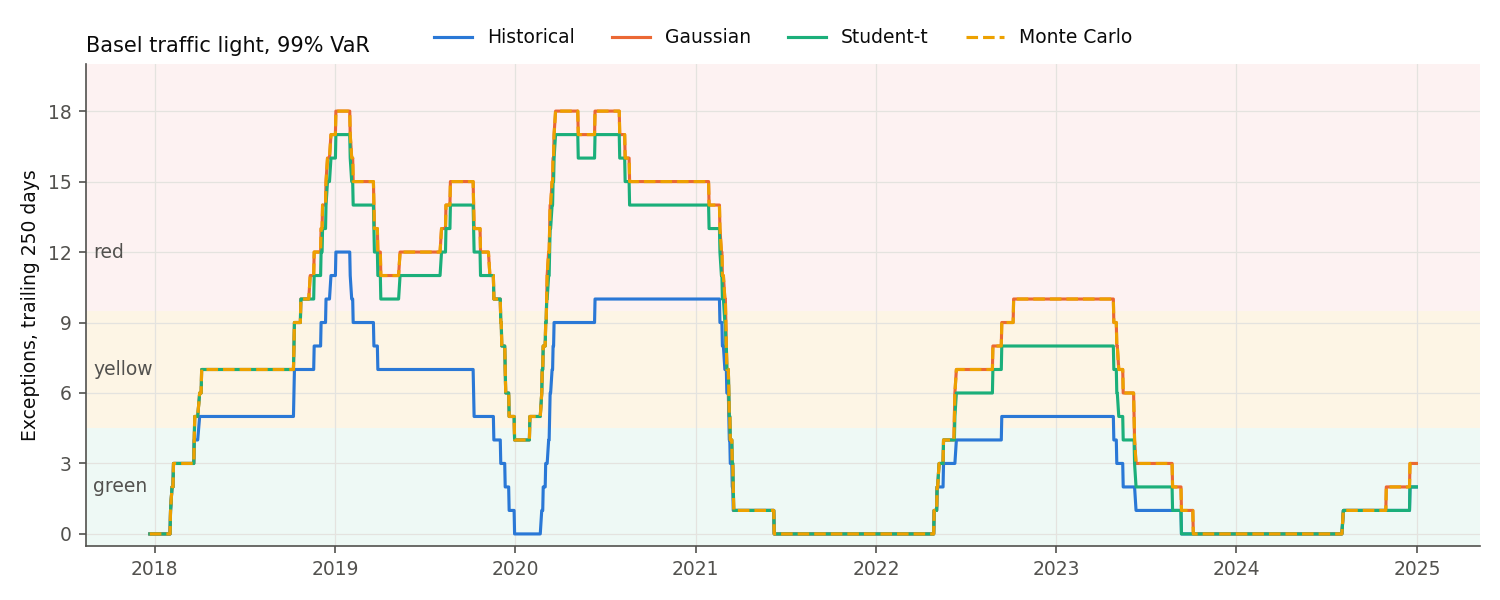
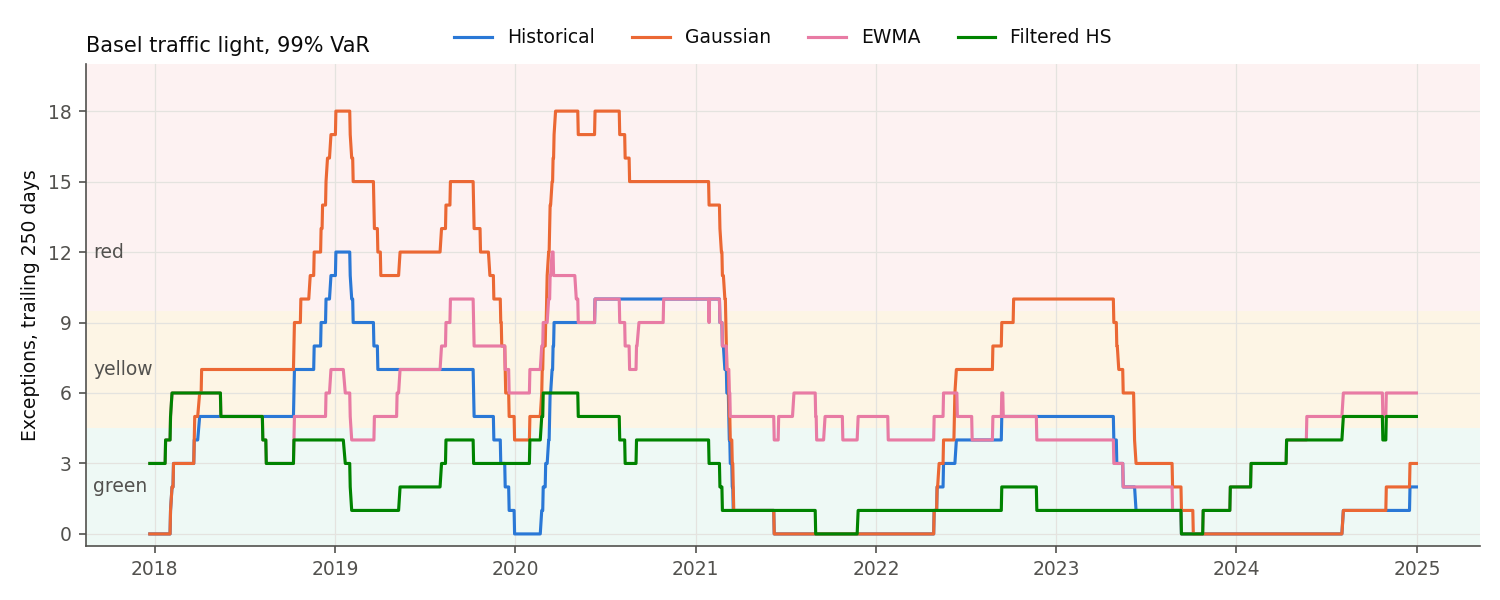
add EWMA FHS validation and CI

diff --git a/var-backtesting/tests/test_var.py b/var-backtesting/tests/test_var.py
@@ -3,7 +3,7 @@ import pandas as pd
 import pytest
 from scipy import stats
 
-from varlib.var import var_hist, var_mc, var_param, var_t
+from varlib.var import ewma_sigma, var_ewma, var_fhs, var_hist, var_mc, var_param, var_t
 
 V = 1e6
 
@@ -88,3 +88,45 @@ def test_t_var_exceeds_gaussian_at_99():
     var_g, es_g = var_param(r, w, 0.99, V)
     var_t5, es_t5 = var_t(r, w, 0.99, V, nu=5)
     assert var_t5 > var_g and es_t5 > es_g
+
+
+def test_t_rejects_nu_without_finite_variance():
+    with pytest.raises(ValueError):
+        var_t(gaussian_returns(100), np.array([1.0]), 0.99, V, nu=2.0)
+
+
+def test_ewma_recursion_by_hand():
+    r = np.array([0.01, -0.02, 0.03])
+    lam = 0.9
+    s2 = r.var()
+    for x in r:
+        s2 = lam * s2 + (1 - lam) * x**2
+    assert ewma_sigma(r, lam)[-1] == pytest.approx(np.sqrt(s2))
+    var, _ = var_ewma(r, 0.99, V, lam)
+    assert var == pytest.approx(stats.norm.ppf(0.99) * np.sqrt(s2) * V)
+
+
+def test_ewma_on_portfolio_equals_ewma_covariance():
+    rng = np.random.default_rng(4)
+    X = rng.multivariate_normal([0, 0], [[1e-4, 3e-5], [3e-5, 2e-4]], size=300)
+    w = np.array([0.6, 0.4])
+    lam = 0.94
+    S = np.cov(X, rowvar=False, ddof=0)  # seed so that w'S0w equals var(w'x)
+    for x in X:
+        S = lam * S + (1 - lam) * np.outer(x, x)
+    assert ewma_sigma(X @ w, lam)[-1] == pytest.approx(np.sqrt(w @ S @ w))
+
+
+def test_fhs_rescales_to_current_volatility():
+    # same shocks, but the last 50 days at twice the volatility: FHS VaR
+    # should rise well above plain historical VaR on the same sample
+    r = gaussian_returns(1_000)["a"].to_numpy()
+    r[-50:] *= 2
+    var_h, _ = var_hist(r, 0.99, V)
+    var_f, _ = var_fhs(r, 0.99, V)
+    assert var_f > 1.4 * var_h
+
+
+def test_fhs_scales_linearly():
+    r = gaussian_returns(500)["a"].to_numpy()
+    assert var_fhs(3 * r, 0.99, V)[0] == pytest.approx(3 * var_fhs(r, 0.99, V)[0])

diff --git a/var-backtesting/src/varlib/cli.py b/var-backtesting/src/varlib/cli.py
@@ -18,6 +18,8 @@ RESULTS = Path("results")
 def load(config_path):
     with open(config_path) as f:
         cfg = yaml.safe_load(f)
+    if cfg["var"]["horizon_days"] != 1:
+        raise SystemExit("only a 1-day horizon is implemented (var.horizon_days: 1)")
     tickers = cfg["portfolio"]["tickers"]
     w = resolve_weights(cfg["portfolio"]["weights"], tickers)
     returns = log_returns(load_prices(tickers, cfg["start"], cfg["end"]))

diff --git a/var-backtesting/README.md b/var-backtesting/README.md
@@ -1,8 +1,11 @@
 # var-backtesting
 
+[![tests](https://github.com/Pranathi-Vallamreddy/var-backtesting/actions/workflows/tests.yml/badge.svg)](https://github.com/Pranathi-Vallamreddy/var-backtesting/actions/workflows/tests.yml)
+
 1-day Value-at-Risk and Expected Shortfall for a six-stock equity portfolio,
-using historical simulation, variance-covariance (Gaussian and Student-t) and
-Monte Carlo, with a rolling out-of-sample backtest and stressed VaR.
+with a rolling out-of-sample backtest and stressed VaR. Methods: historical
+simulation, variance-covariance (Gaussian and Student-t), Monte Carlo, EWMA
+(RiskMetrics) and filtered historical simulation.
 
 The portfolio is $1m equally weighted in AAPL, MSFT, JPM, XOM, JNJ and PG
 (tech, banks, energy, healthcare, staples), 2015-2024. Everything is set in
@@ -27,53 +30,66 @@ python -m varlib.cli --config config/portfolio.yaml stress     # stressed vs cur
 ```
 
 The backtest re-estimates every model on each of ~2,000 days and takes about a
-minute, almost all of it Monte Carlo.
+minute.
 
 ## Results
 
 Rolling 500-day estimation window, forecasts from 2016-12-28 to 2024-12-31
-(2,015 days). Expected exceptions: 100.8 at 95%, 20.2 at 99%.
+(2,015 days). Expected exceptions: 100.8 at 95%, 20.2 at 99%. Tests at 5%.
 
-| 99% VaR | Exceptions | Kupiec p | Christoffersen p | Cond. coverage p | Basel, last 250d | Basel, worst 250d |
-|---|---|---|---|---|---|---|
-| Historical | 29 | 0.063 | 0.007 | 0.005 | green (2) | red (12) |
-| Student-t (nu=5) | 45 | <0.001 | <0.001 | <0.001 | green (2) | red (17) |
-| Gaussian | 50 | <0.001 | <0.001 | <0.001 | green (3) | red (18) |
-| Monte Carlo | 50 | <0.001 | <0.001 | <0.001 | green (3) | red (18) |
+| 99% VaR | Exceptions | Kupiec p | Christoffersen p | Cond. coverage p | Loss / ES on exception days | Basel, last 250d | Basel, worst 250d |
+|---|---|---|---|---|---|---|---|
+| Filtered HS | 23 | 0.53 | 0.26 | 0.44 | 25.0k / 25.5k | yellow (5) | yellow (6) |
+| Historical | 29 | 0.063 | 0.007 | 0.005 | 41.3k / 39.6k | green (2) | red (12) |
+| EWMA | 43 | <0.001 | 0.32 | <0.001 | 31.2k / 26.5k | yellow (6) | red (12) |
+| Student-t (nu=5) | 45 | <0.001 | <0.001 | <0.001 | 36.0k / 31.7k | green (2) | red (17) |
+| Gaussian | 50 | <0.001 | <0.001 | <0.001 | 34.5k / 24.3k | green (3) | red (18) |
+| Monte Carlo | 50 | <0.001 | <0.001 | <0.001 | 34.5k / 24.1k | green (3) | red (18) |
 
-At 95% all four methods pass Kupiec (99-107 exceptions, p between 0.53 and
-0.86) and all four fail independence (p < 0.001).
+At 95% every method passes Kupiec, but only EWMA (106 exceptions, conditional
+coverage p = 0.85) and filtered HS (112, p = 0.41) pass independence; the four
+equal-weighted methods all have p < 0.001.
 
-No method passes conditional coverage at 99%. Historical simulation is the
-only one whose exception count is not rejected, and only just. The Gaussian
-model has 2.5 times the expected exceptions, and on the days it is breached
-the average loss is $34k against a forecast ES of $24k, so it understates
-both the quantile and the tail beyond it. Monte Carlo matches Gaussian almost
-exactly, as it should, since it samples from the same fitted normal. The
-Student-t sits between the two. On 99% historical exception days the average
-loss ($41k) is close to its ES ($40k).
+The four methods that weight the window equally fail for two separate
+reasons, and the two volatility-updating methods isolate them:
+
+- **Volatility clustering.** A 500-day equally weighted window reacts too
+  slowly when volatility jumps, so exceptions arrive in runs and every
+  equal-weighted method fails Christoffersen. EWMA fixes this (independence
+  p = 0.32) but keeps the Gaussian tail and has twice the expected exceptions
+  at 99%.
+- **Fat tails.** The Gaussian model has 2.5 times the expected 99% exceptions,
+  and on those days the average loss is $34.5k against a forecast ES of
+  $24.3k. Monte Carlo matches it, as it should, since it samples the same
+  fitted normal. Historical simulation gets the tail shape right (loss $41.3k
+  vs ES $39.6k) but not the timing.
+
+Filtered historical simulation combines the two, empirical tail scaled to
+EWMA volatility, and is the only method that passes all three tests at both
+confidence levels. Its ES also matches realised tail losses. The cost is
+stability: its 99% VaR went from about $20k to $200k within a month in March
+2020, so any capital tied to it would swing the same way. It is also in the
+yellow zone over the last 250 days, because 2024 was calm enough that EWMA
+volatility fell low and moderate losses breached it.
 
 ![Realised loss vs 99% VaR](results/var_vs_loss_99.png)
 
-Exceptions cluster in four episodes: February-April 2018, October-December
-2018, February-March 2020 (10 of the Gaussian model's 50 fall in March 2020
-alone), and April-October 2022. In each, volatility rose faster than a 500-day
-equally weighted window can follow, so breaches arrive in runs and every
-method fails the independence test. Historical VaR also shows the window's
-ghosting effect: it steps up when March 2020 enters the sample and stays
-there until those days roll out two years later, regardless of conditions in
-2021.
+Equal-weighted exceptions cluster in four episodes: February-April 2018,
+October-December 2018, February-March 2020 (10 of the Gaussian model's 50 in
+March 2020 alone), and April-October 2022. Historical VaR also shows the
+window's ghosting effect: it steps up when March 2020 enters the sample and
+stays there until those days roll out two years later.
 
 ![Rolling 250-day exception count](results/rolling_exceptions_99.png)
 
-Over the last 250 days every method is in the Basel green zone, but each spent
-long stretches in the red, so the last-250-day reading on its own overstates
-how well these models perform.
+The equal-weighted methods are all green over the last 250 days but each
+spent long stretches in the red, so the last-250-day reading on its own
+overstates how well they work.
 
 ![Return distribution vs normal](results/return_tails.png)
 
-Stressed VaR, calibrated to Sep 2008 - Mar 2009 (145 days), compared with the
-most recent 500 days:
+Stressed VaR, calibrated to Sep 2008 - Mar 2009 (145 days), against the most
+recent 500 days:
 
 | 99% | Current VaR | Stressed VaR | Ratio |
 |---|---|---|---|
@@ -82,32 +98,35 @@ most recent 500 days:
 | Student-t | 16,678 | 94,156 | 5.6 |
 | Monte Carlo | 14,704 | 83,993 | 5.7 |
 
-The ratios are high partly because 2023-24 was a calm period. With 145
-observations the 99% historical figure rests on one or two days.
+The ratios are high partly because 2023-24 was calm. With 145 observations
+the 99% historical figure rests on one or two days. EWMA and FHS are not
+shown, since they condition on end-of-window volatility rather than the
+period as a whole.
 
 ## Assumptions
 
-- Returns are i.i.d. within each estimation window; all observations get equal
-  weight.
+- Within the window, standardised returns are i.i.d. For the four
+  equal-weighted methods the raw returns are, which is the assumption the
+  backtest rejects.
 - Constant notional and fixed weights, rebalanced daily. Portfolio return is
   the weighted sum of log returns, a first-order approximation.
 - Adjusted closes, so dividends are treated as reinvested.
 - 1-day horizon only; no square-root-of-time scaling.
-- Parametric and Monte Carlo use the sample mean. Over 500 days it is small
-  next to sigma but not zero, and it slightly lowers VaR.
+- Gaussian, Student-t and Monte Carlo use the sample mean; EWMA and FHS use
+  zero, as in RiskMetrics.
 
 ## Limitations
 
-- No volatility model (EWMA or GARCH). This is the main reason the backtests
-  fail independence, and the obvious next step.
+- EWMA uses the RiskMetrics lambda = 0.94 rather than an estimated one, and
+  there is no GARCH model to compare against.
 - Equity only, linear positions. No options, so no gamma or vega, and
   delta-normal is exact here only because the book is linear.
-- Gaussian and Monte Carlo VaR understate tail risk, as the results show. The
-  Monte Carlo draws are multivariate normal, so it adds nothing beyond the
-  Gaussian model here; it would matter with non-linear positions.
-- The Student-t uses a fixed nu=5. An MLE fit on the full sample gives about
-  2.8, close to the point where the variance is undefined, so the fixed value
-  is a pragmatic choice rather than an estimate.
+- Monte Carlo draws are multivariate normal, so here it adds nothing beyond
+  the Gaussian model; it would matter with non-linear positions.
+- The Student-t uses a fixed nu = 5. An MLE fit on the full sample gives about
+  2.8, close to where the variance is undefined, so the fixed value is a
+  pragmatic choice rather than an estimate.
+- The ES check is a comparison of averages, not a formal ES backtest.
 - No liquidity horizon, transaction costs, FX, or intraday risk.
 - Stress windows are short (145 days for the GFC, about 50 for COVID), so
   stressed historical VaR is indicative only.

diff --git a/var-backtesting/docs/methodology.md b/var-backtesting/docs/methodology.md
@@ -59,6 +59,34 @@ changes in MC VaR from one day to the next reflect the data, not sampling
 noise. Since the model is multivariate normal, MC VaR converges to the
 Gaussian variance-covariance figure as N grows; the tests check this.
 
+## EWMA (RiskMetrics)
+
+The methods above weight every day in the window equally. EWMA lets the
+volatility estimate react to recent returns (J.P. Morgan/Reuters 1996):
+
+    sigma_t^2 = lambda * sigma_{t-1}^2 + (1 - lambda) * r_p,{t-1}^2,   lambda = 0.94
+    VaR = z * sigma_T * V
+    ES  = sigma_T * phi(z) / (1 - alpha) * V
+
+sigma_T is the forecast for the day after the window. The recursion is seeded
+with the window's sample variance; after 500 days the seed carries weight
+0.94^500, about 4e-14. Mean is taken as zero, as in RiskMetrics. Running the
+recursion on the portfolio return gives the same sigma_p as an EWMA
+covariance matrix, w' Sigma_ewma w, since both are the same weighted sum of
+(w'r)^2; the tests check this.
+
+## Filtered historical simulation
+
+Hull and White (1998). Each return in the window is divided by the EWMA
+volatility forecast for its own day and rescaled to the current forecast:
+
+    r*_t = r_p,t * sigma_T / sigma_t
+
+VaR and ES are then read off {r*_t} as in historical simulation. The
+scenarios keep the empirical shape of the returns (fat tails, skew) but are
+scaled to today's volatility, which addresses both failures of the plain
+methods: equal weighting and the Gaussian tail.
+
 ## Backtest
 
 For each day t from W to T - 1 (W = 500): estimate on returns [t - W, t - 1],
@@ -93,6 +121,14 @@ zero, so the statistics stay finite. An empty row contributes nothing to the
 likelihood, so its transition probability is set to 0 without effect.
 Statistics are clipped at 0 to remove floating-point residue of order 1e-14.
 
+## ES diagnostic
+
+For each method the coverage table reports the mean realised loss on
+exception days and the mean ES forecast on the same days. If ES is right the
+two should be close; a ratio well above 1 means ES understates the tail. This
+is a sanity check in the spirit of Acerbi and Szekely (2014), not their formal
+test, which needs a simulated null distribution.
+
 ## Basel traffic light
 
 Basel Committee (1996): 99% VaR, 250 trading days of exceptions.
@@ -109,13 +145,18 @@ window.
 
 ## Stressed VaR
 
-The same four models, estimated only on a fixed stress window (default
+The four unconditional models (historical, Gaussian, Student-t, Monte
+Carlo), estimated only on a fixed stress window (default
 2008-09-01 to 2009-03-31; alternative 2020-02-15 to 2020-04-30), compared
-with VaR estimated on the most recent W days. This follows the idea of the
+with VaR estimated on the most recent W days. EWMA and FHS are left out:
+they condition on volatility at the end of the window, a point-in-time
+reading rather than a calibration to the period. This follows the idea of the
 Basel 2.5 stressed VaR charge, though not its 10-day, 12-month calibration.
 
 ## References
 
+- Acerbi, C. and Szekely, B. (2014). Backtesting Expected Shortfall.
+  *Risk*, December 2014.
 - Basel Committee on Banking Supervision (1996). *Supervisory Framework for
   the Use of "Backtesting" in Conjunction with the Internal Models Approach
   to Market Risk Capital Requirements.* Bank for International Settlements.
@@ -123,6 +164,10 @@ Basel 2.5 stressed VaR charge, though not its 10-day, 12-month calibration.
   Economic Review*, 39(4), 841-862.
 - Hyndman, R. J. and Fan, Y. (1996). Sample Quantiles in Statistical
   Packages. *The American Statistician*, 50(4), 361-365.
+- Hull, J. and White, A. (1998). Incorporating Volatility Updating into the
+  Historical Simulation Method for Value-at-Risk. *Journal of Risk*, 1(1),
+  5-19.
+- J.P. Morgan/Reuters (1996). *RiskMetrics - Technical Document*, 4th ed.
 - Jorion, P. (2007). *Value at Risk: The New Benchmark for Managing Financial
   Risk*, 3rd ed. McGraw-Hill.
 - Kupiec, P. H. (1995). Techniques for Verifying the Accuracy of Risk
